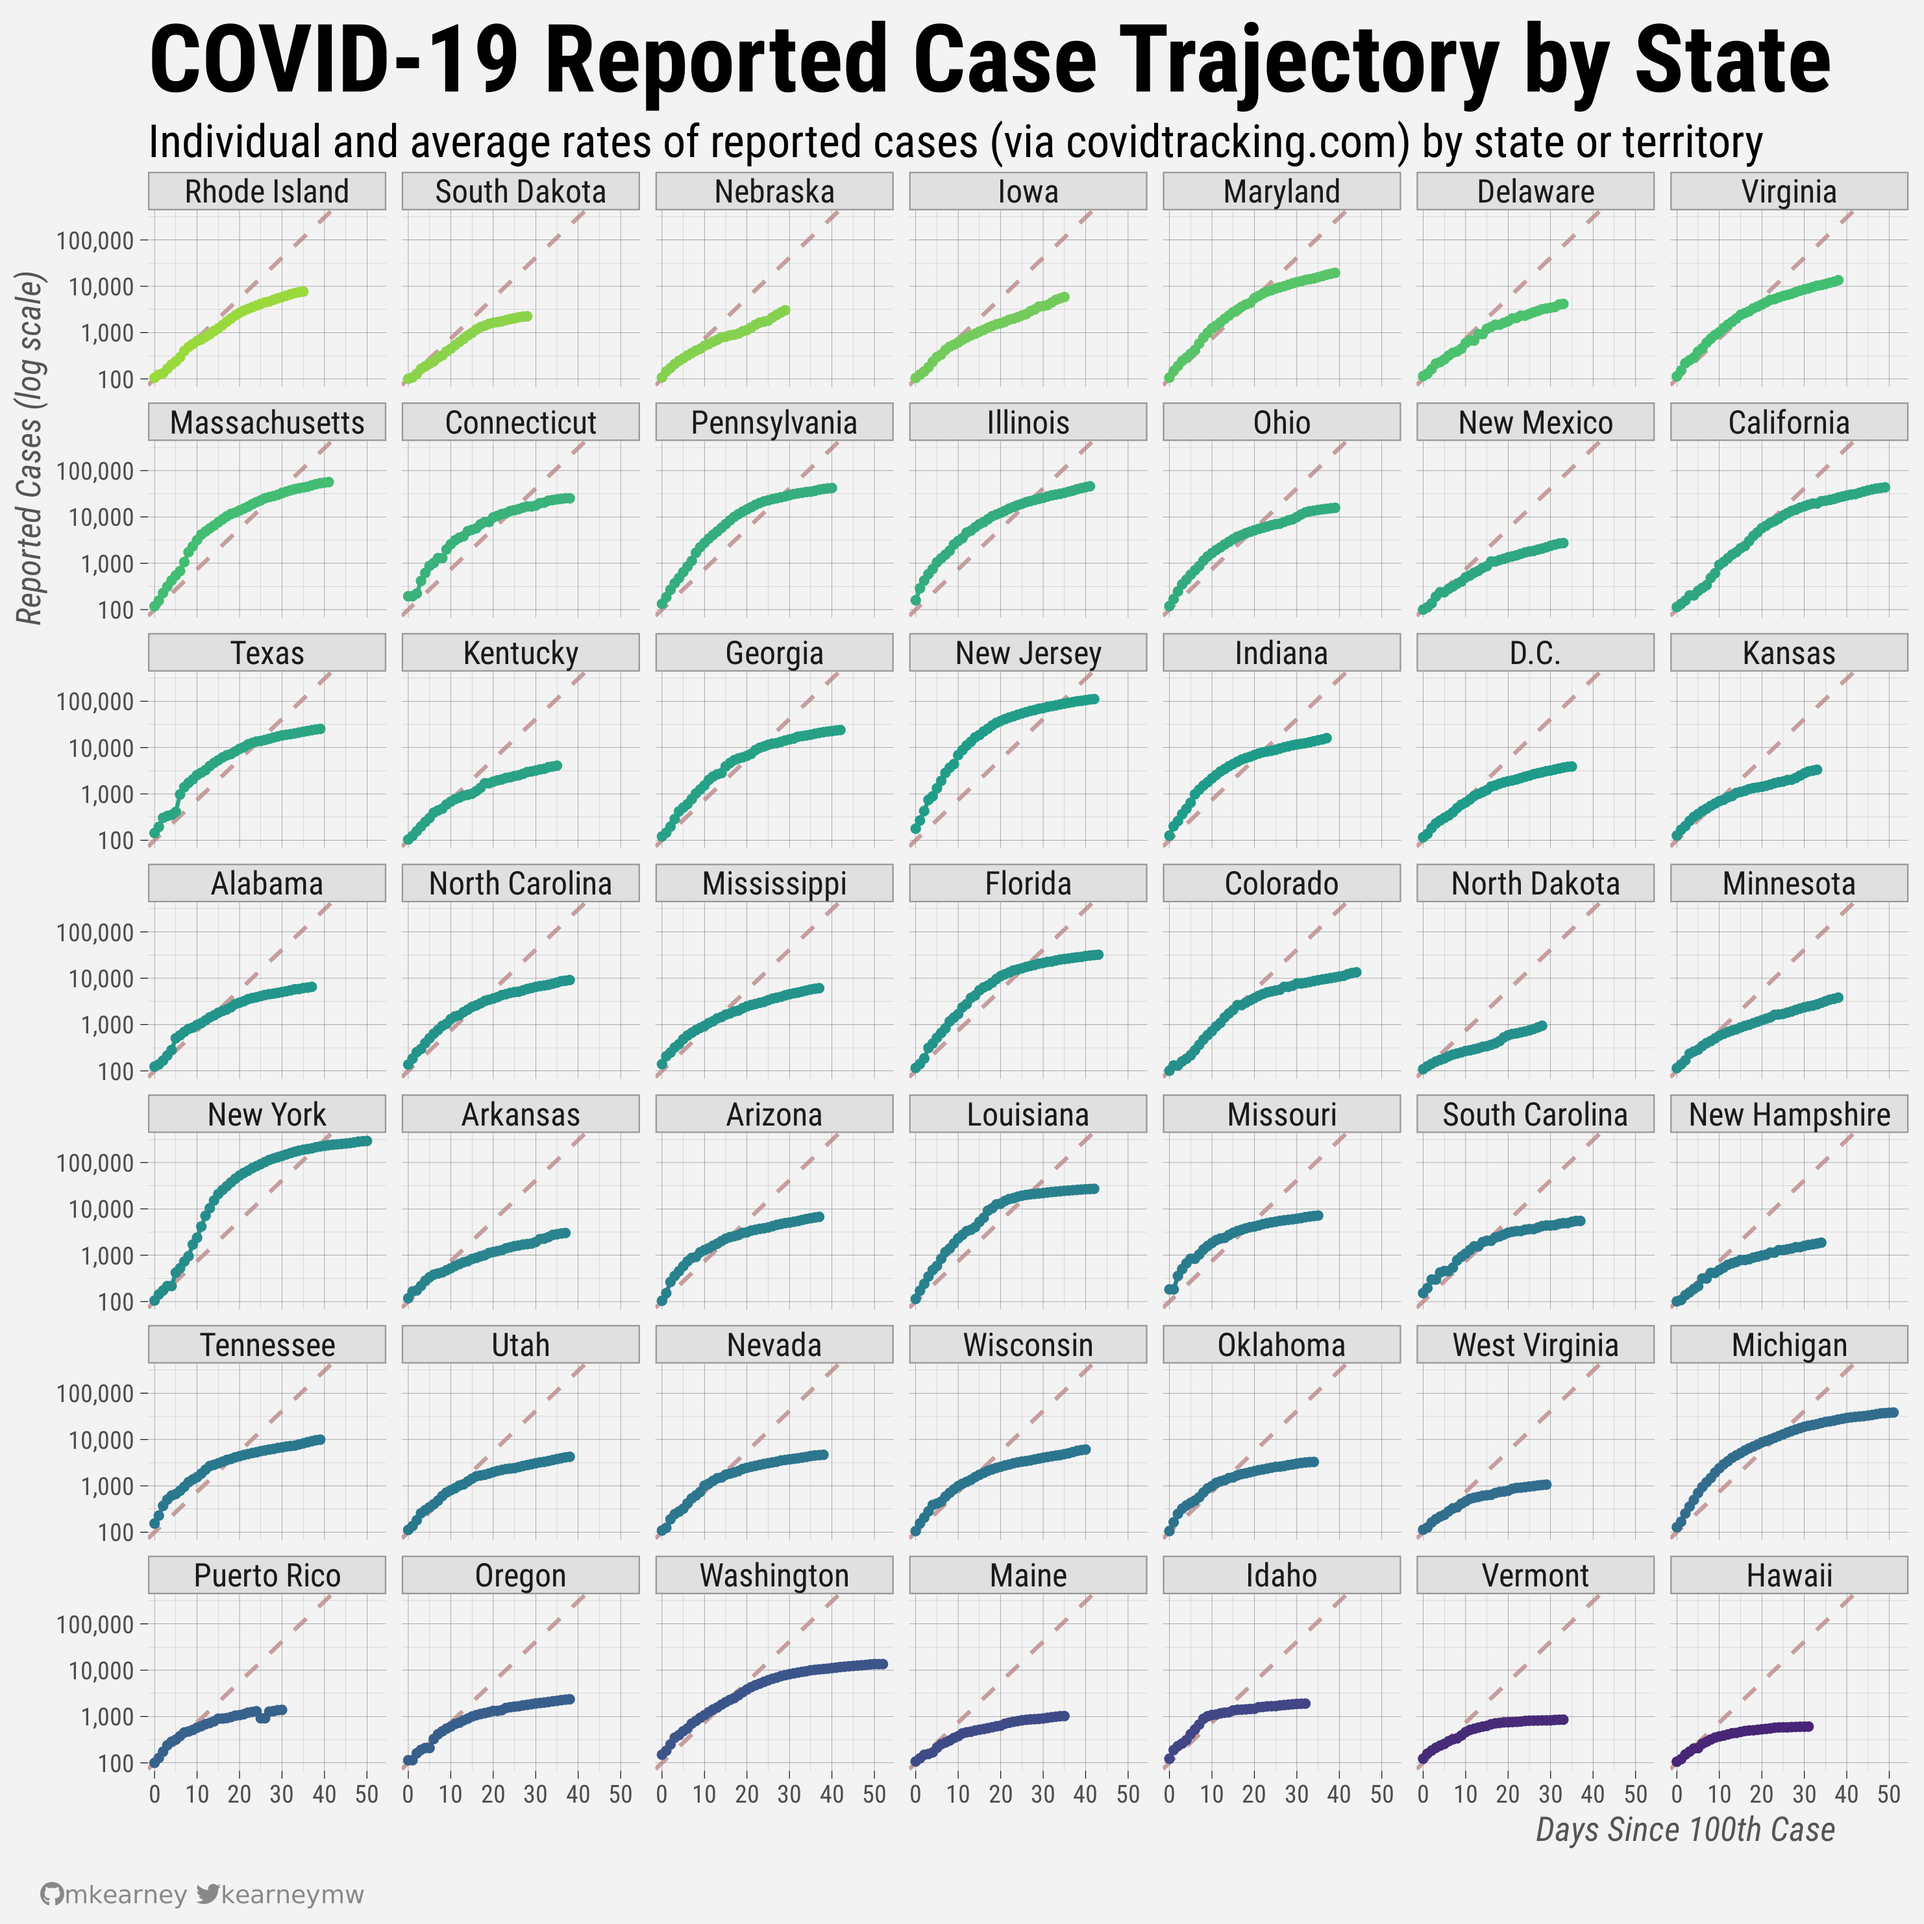
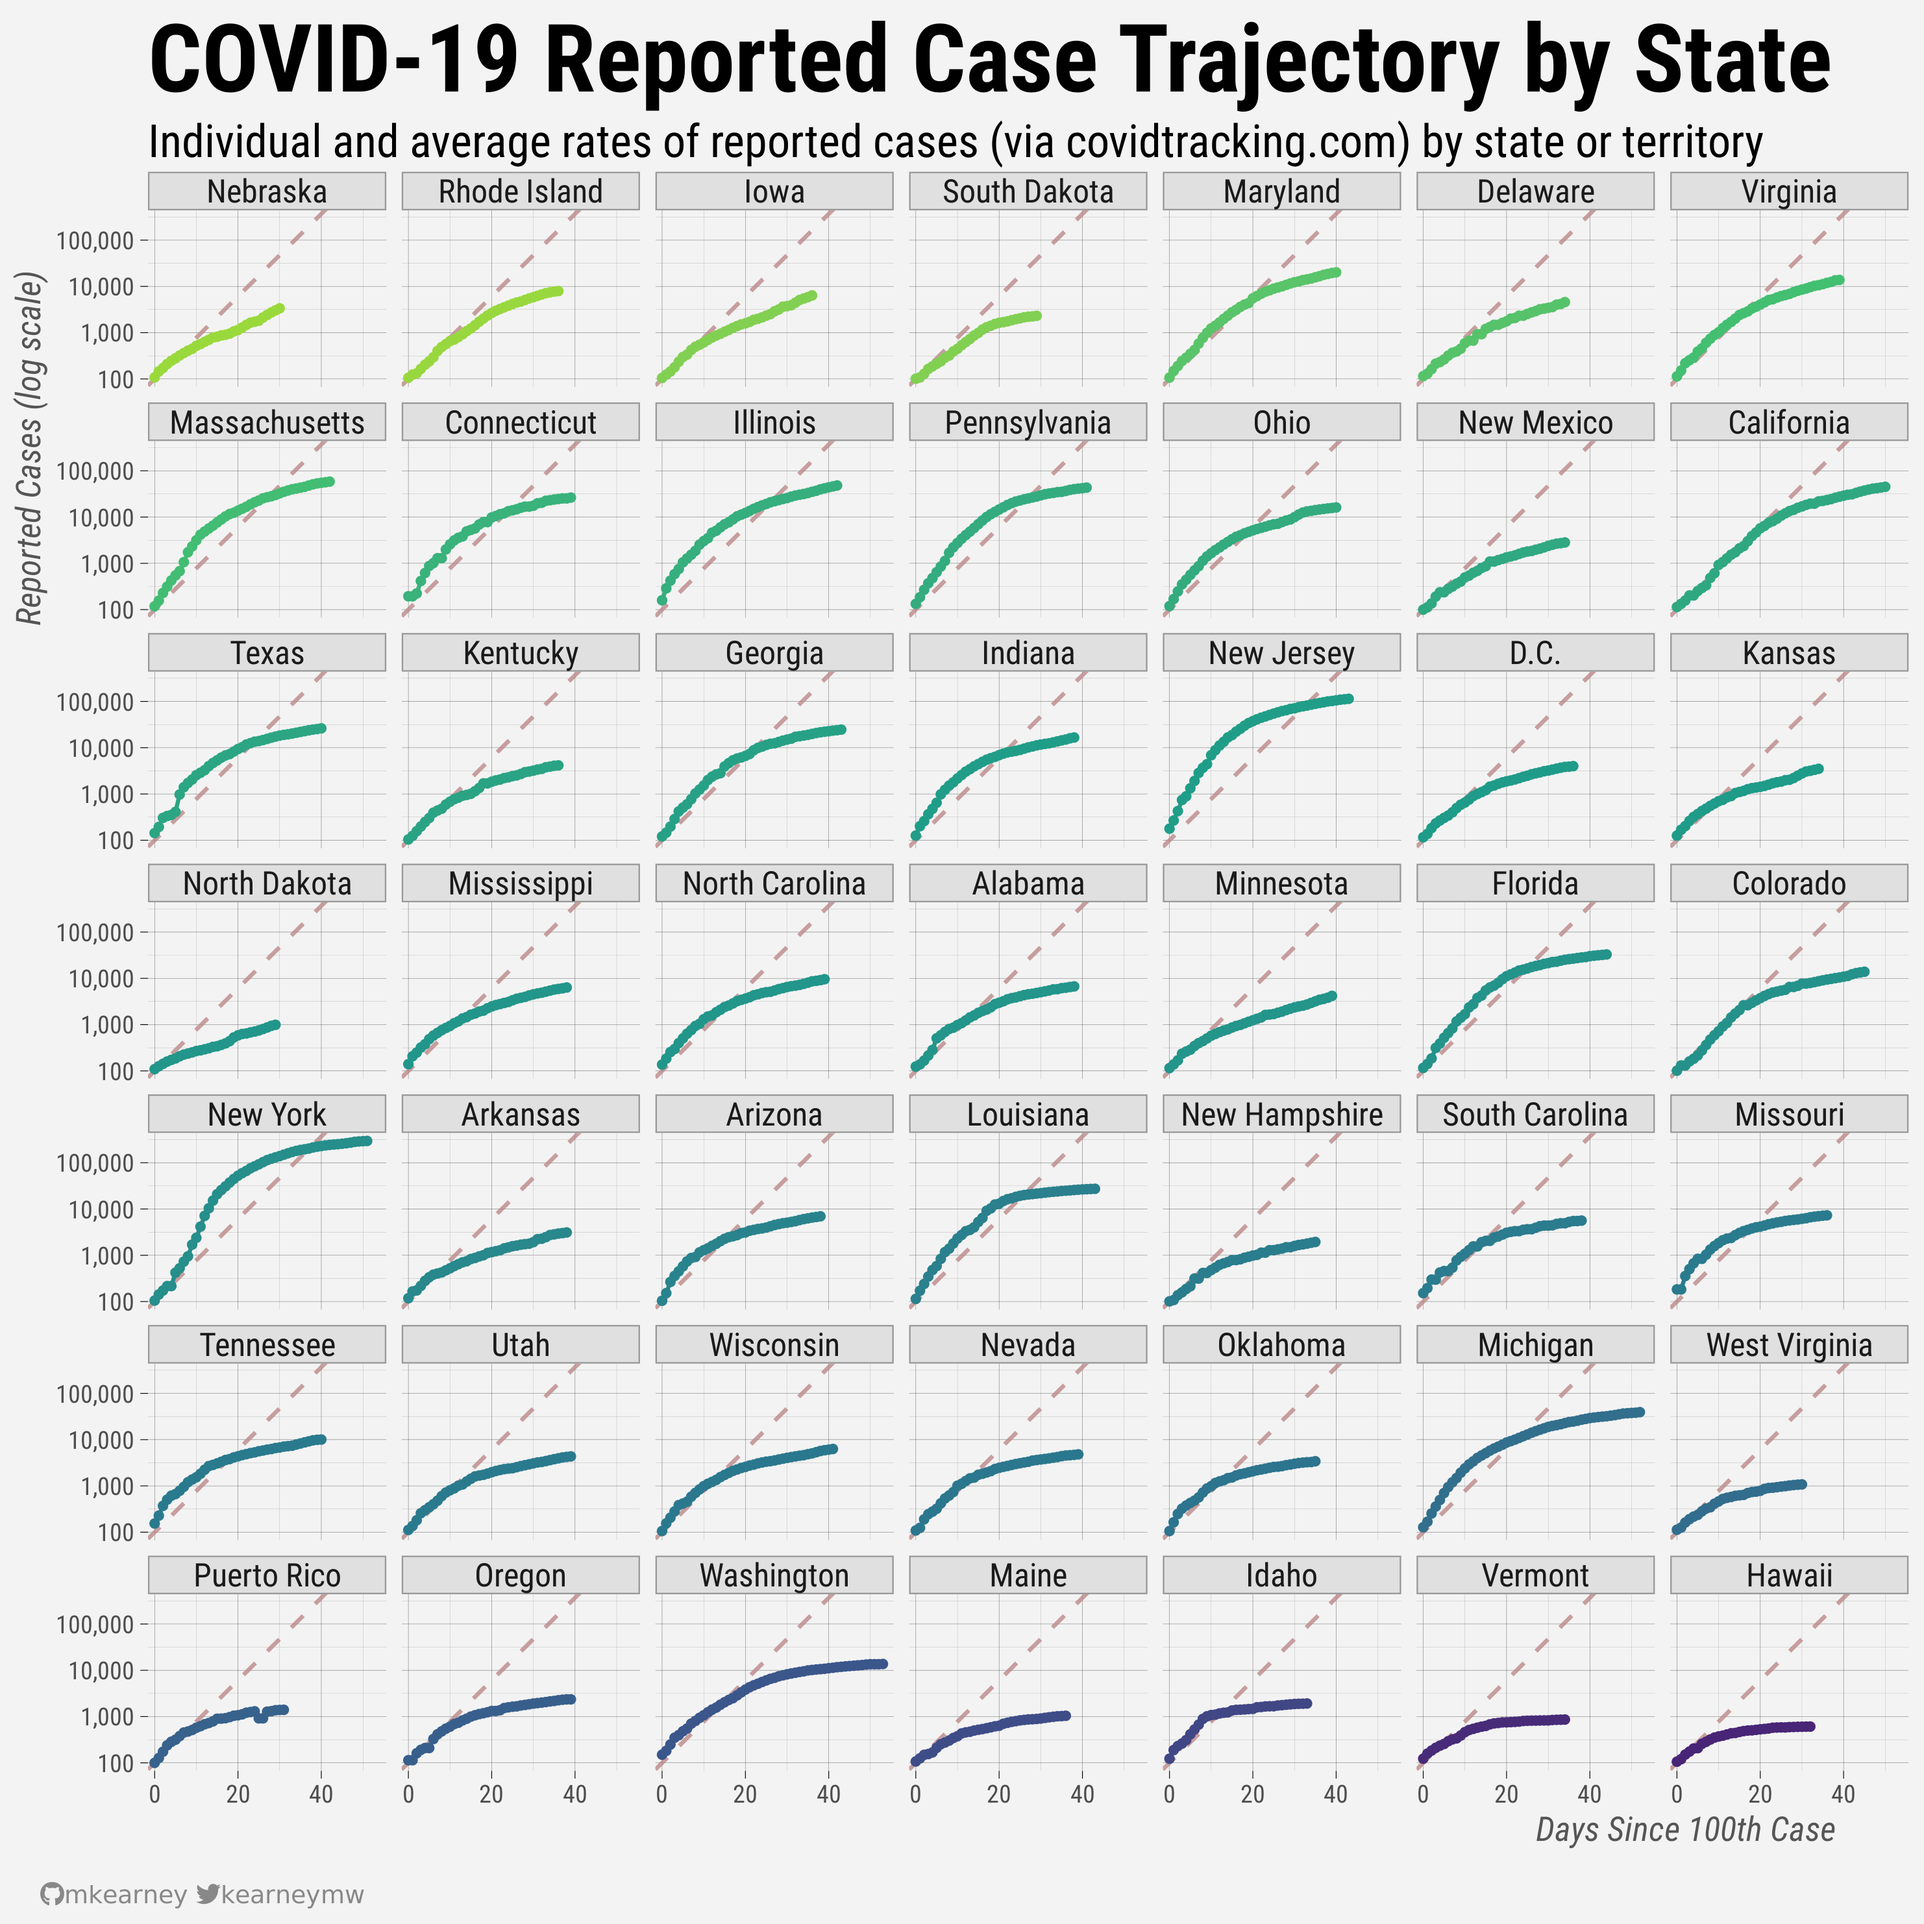
daily cron update

diff --git a/README.md b/README.md
@@ -40,7 +40,7 @@ grouped by similar endpoints and included below.
     #> # A tibble: 1 x 18
     #>   positive negative pending hospitalized_cu… hospitalized_cu… in_icu_currently
     #>      <int>    <int>   <int>            <int>            <int>            <int>
-    #> 1   985064  4643310    4100            54451            98312             9690
+    #> 1  1005592  4790136    4206            54940           106265             9491
     #> # … with 12 more variables: in_icu_cumulative <int>,
     #> #   on_ventilator_currently <int>, on_ventilator_cumulative <int>,
     #> #   recovered <int>, hash <chr>, last_modified <dttm>, death <int>,
@@ -54,20 +54,20 @@ grouped by similar endpoints and included below.
     
     ``` r
     covid19_us_daily()
-    #> # A tibble: 97 x 24
+    #> # A tibble: 98 x 24
     #>    date       states positive negative pending hospitalized_cu… hospitalized_cu…
     #>    <date>      <int>    <int>    <int>   <int>            <int>            <int>
-    #>  1 2020-04-27     56   981134  4612361    4077            54971            97782
-    #>  2 2020-04-26     56   959258  4443794    4445            55030            95810
-    #>  3 2020-04-25     56   932242  4264407    5315            56344            94743
-    #>  4 2020-04-24     56   896306  4029087    4396            56075            93366
-    #>  5 2020-04-23     56   861788  3831380    4258            57840            91108
-    #>  6 2020-04-22     56   830223  3670933    4191            58086            89799
-    #>  7 2020-04-21     56   802330  3384644    3956            58573            88301
-    #>  8 2020-04-20     56   776419  3262476    4037            55652            86751
-    #>  9 2020-04-19     56   751287  3140096   11324            55550            84670
-    #> 10 2020-04-18     56   723776  3001149    9906            56553            82567
-    #> # … with 87 more rows, and 17 more variables: in_icu_currently <int>,
+    #>  1 2020-04-28     56  1005592  4790136    4206            54940           106265
+    #>  2 2020-04-27     56   981134  4612361    4077            54971            97782
+    #>  3 2020-04-26     56   959258  4443794    4445            55030            95810
+    #>  4 2020-04-25     56   932242  4264407    5315            56344            94743
+    #>  5 2020-04-24     56   896306  4029087    4396            56075            93366
+    #>  6 2020-04-23     56   861788  3831380    4258            57840            91108
+    #>  7 2020-04-22     56   830223  3670933    4191            58086            89799
+    #>  8 2020-04-21     56   802330  3384644    3956            58573            88301
+    #>  9 2020-04-20     56   776419  3262476    4037            55652            86751
+    #> 10 2020-04-19     56   751287  3140096   11324            55550            84670
+    #> # … with 88 more rows, and 17 more variables: in_icu_currently <int>,
     #> #   in_icu_cumulative <int>, on_ventilator_currently <int>,
     #> #   on_ventilator_cumulative <int>, recovered <int>, hash <chr>,
     #> #   date_checked <dttm>, death <int>, hospitalized <int>, total <int>,
@@ -114,20 +114,20 @@ grouped by similar endpoints and included below.
     
     ``` r
     covid19_states_daily()
-    #> # A tibble: 2,985 x 25
+    #> # A tibble: 3,041 x 25
     #>    date       state positive negative pending hospitalized_cu… hospitalized_cu…
     #>    <date>     <chr>    <int>    <int>   <int>            <int>            <int>
-    #>  1 2020-04-27 AK         345    15911      NA               10               NA
-    #>  2 2020-04-27 AL        6499    67498      NA               NA              872
-    #>  3 2020-04-27 AR        3017    37440      NA              109               NA
-    #>  4 2020-04-27 AS           0        3      17               NA               NA
-    #>  5 2020-04-27 AZ        6716    59827      NA              647             1051
-    #>  6 2020-04-27 CA       43464   509945      NA             4878               NA
-    #>  7 2020-04-27 CO       13441    49833      NA             1007             2438
-    #>  8 2020-04-27 CT       25269    54542      NA             1758               NA
-    #>  9 2020-04-27 DC        3892    14524      NA              402               NA
-    #> 10 2020-04-27 DE        4162    15454      NA              325               NA
-    #> # … with 2,975 more rows, and 18 more variables: in_icu_currently <int>,
+    #>  1 2020-04-28 AK         351    16738      NA               16               NA
+    #>  2 2020-04-28 AL        6687    69140      NA               NA              911
+    #>  3 2020-04-28 AR        3111    37560      NA              104               NA
+    #>  4 2020-04-28 AS           0        3      17               NA               NA
+    #>  5 2020-04-28 AZ        6948    60490      NA              737             1095
+    #>  6 2020-04-28 CA       45031   532577      NA             4983               NA
+    #>  7 2020-04-28 CO       13879    52462      NA              994             2485
+    #>  8 2020-04-28 CT       26312    66433      NA             1732               NA
+    #>  9 2020-04-28 DC        3994    14891      NA               NA               NA
+    #> 10 2020-04-28 DE        4575    16605      NA              337               NA
+    #> # … with 3,031 more rows, and 18 more variables: in_icu_currently <int>,
     #> #   in_icu_cumulative <int>, on_ventilator_currently <int>,
     #> #   on_ventilator_cumulative <int>, recovered <int>, hash <chr>,
     #> #   date_checked <dttm>, death <int>, hospitalized <int>, total <int>,
@@ -188,20 +188,10 @@ grouped by similar endpoints and included below.
     
     ``` r
     covid19_urls()
-    #> # A tibble: 56 x 6
-    #>    kind  name    url                 filter               state_id ssl_no_verify
-    #>    <chr> <chr>   <chr>               <chr>                <chr>    <lgl>        
-    #>  1 url   Alaska  "https://services1… "css:.ftrTable,html… AK       NA           
-    #>  2 url   Alabama "https://services7… "css:.ftrTable,html… AL       NA           
-    #>  3 url   Arkans… "https://www.healt… "css:#contentBody t… AR       NA           
-    #>  4 url   Arizona "https://tableau.a… "ocr,clean-new-line… AZ       NA           
-    #>  5 url   Califo… "https://www.cdph.… "css:table:contains… CA       NA           
-    #>  6 url   Colora… "https://covid19.c… "css:article .parag… CO       NA           
-    #>  7 url   Connec… "https://data.ct.g… "strip"              CT       NA           
-    #>  8 url   Washin… "https://coronavir… "css:ul:contains(\"… DC       NA           
-    #>  9 url   Delawa… "https://services1… "css:.ftrTable,html… DE       NA           
-    #> 10 url   Florida "https://services1… "css:.ftrTable,html… FL       NA           
-    #> # … with 46 more rows
+    #> # A tibble: 1 x 1
+    #>   x500                 
+    #>   <chr>                
+    #> 1 Internal Server Error
     ```
 
   - **`covid19_press()`**: Information (`title`, `url`, `publication`,
